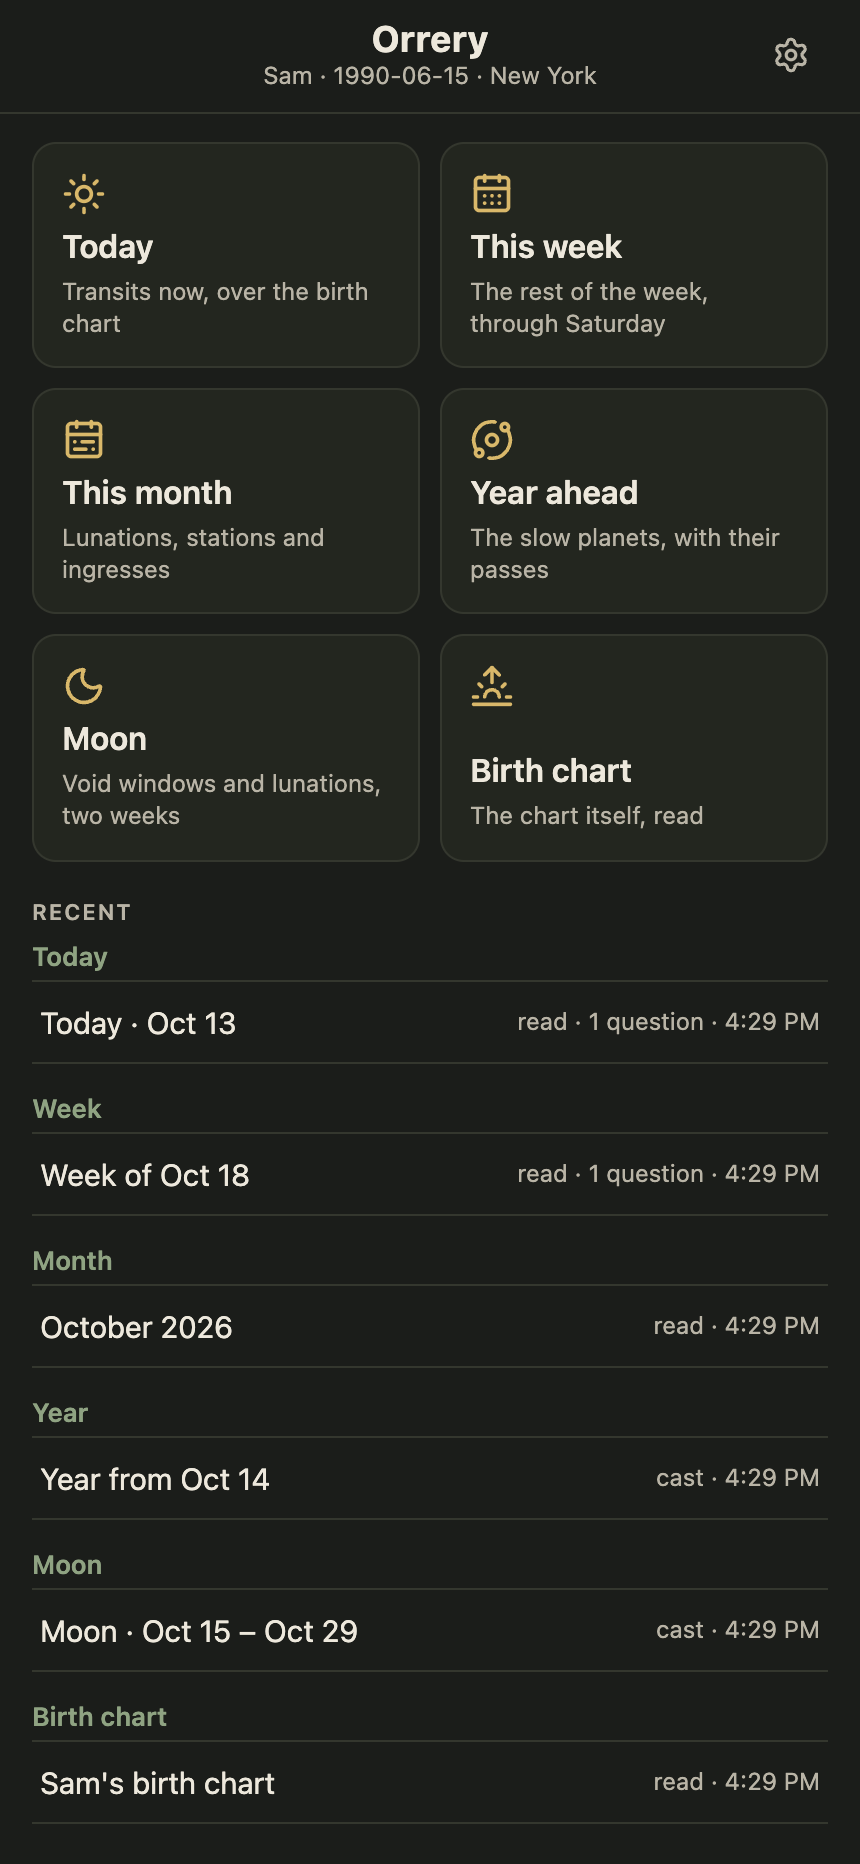
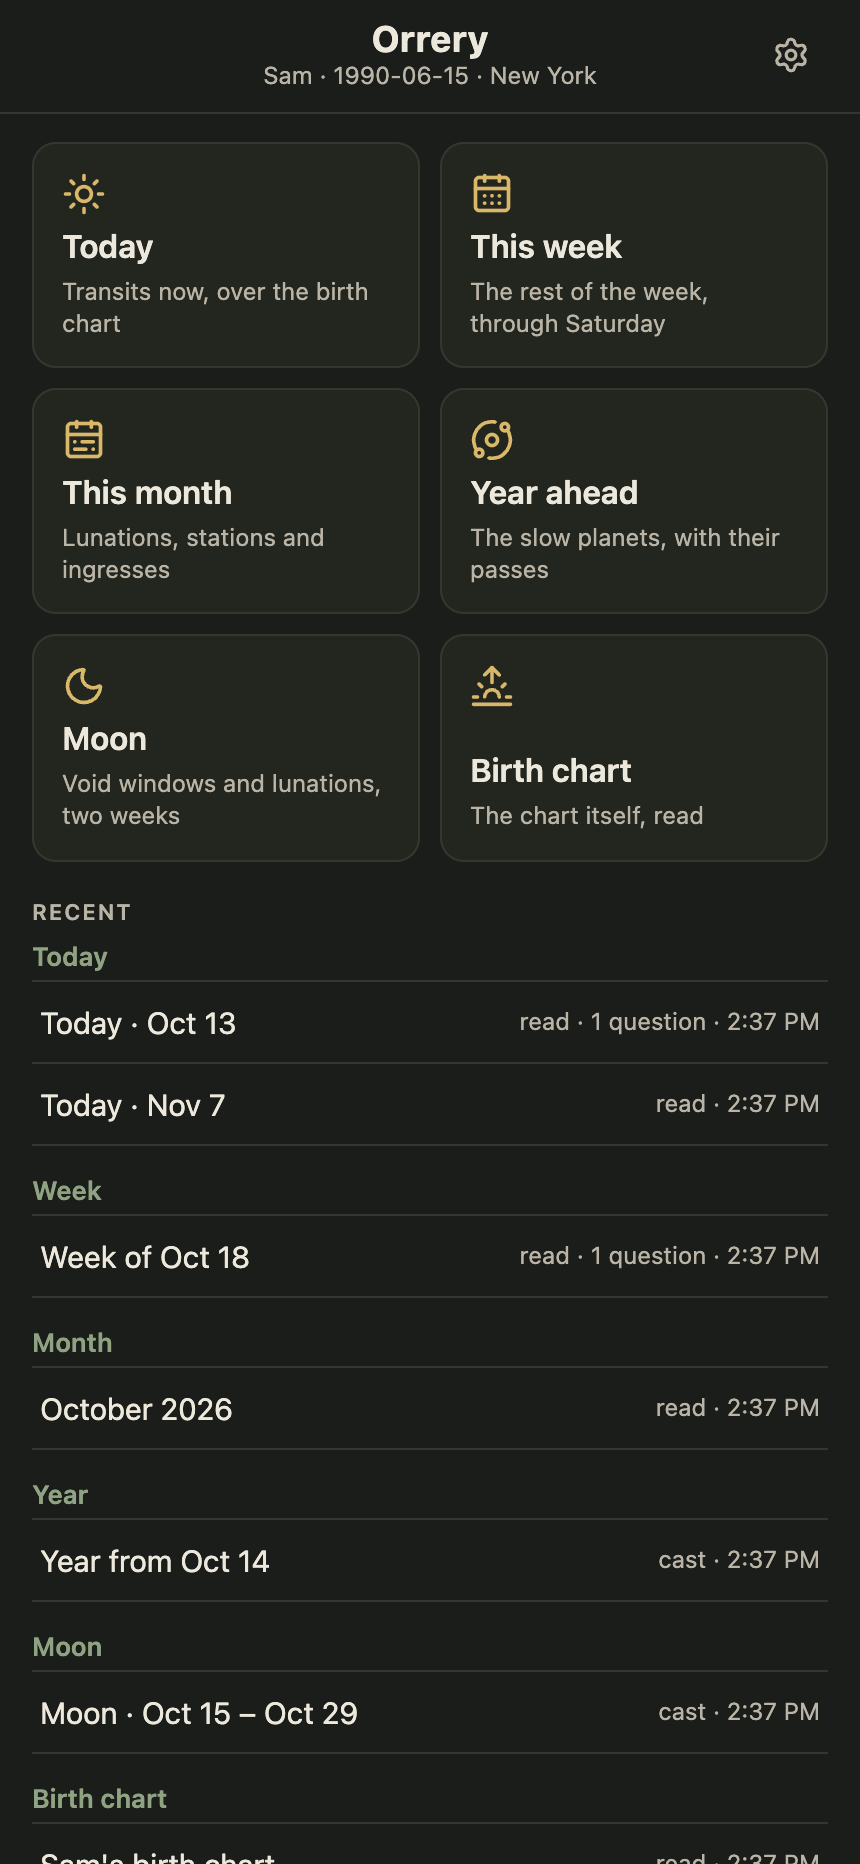
docs: a busier demo day, and a phone shot of its held popup

diff --git a/scripts/seed-demo.ts b/scripts/seed-demo.ts
@@ -84,6 +84,42 @@ The **Sun trine your Sun** is still warm on Monday: send the application you hav
 **Saturn on your Mars** separates slowly all week, and **Uranus on your Mercury** keeps the plans fluid. Mercury stations retrograde on Saturday: anything signed after Friday will be revisited.`, 5.4, 1090)
 store.addFollowUp(week.id, 'Which day is best to follow up with the recruiter?')
 
+// A busier day, fourteen contacts on the wheel, listed under the Oct 13 one.
+const busy = store.addCasting({ kind: 'today', period: '2026-11-07', title: 'Today · Nov 7', result: fixture('transit-chart-nov7') })
+write(busy.id, "Write today's reading (2026-11-07).", `### Today
+
+Once a year the **Sun reaches your Pluto**, and today is the day, exact at 14:20 in your second house. What you have been understating about money or your own worth gets said plainly, by you or to you. It is not a crisis; it is the annual audit. By tomorrow before dawn the Sun trines your **Midheaven**, **Jupiter** and **Chiron** in turn, so whatever is faced today turns into standing at work.
+
+**Venus, retrograde, squares your Saturn** for the second of three passes and still trines your Sun: a friendship or a price is being renegotiated slowly, and someone from early September comes back around warmer than before. **Mercury, also retrograde**, doubles back on a clever idea from early October and has second thoughts about the direction; write them down rather than act on them.
+
+### The Moon
+
+A heavy first hour, the Moon in Libra square your Saturn at 06:21, then trine your Sun by 07:03 and the mood lifts. The morning is easy company.
+
+### The backdrop
+
+**Jupiter sextile your Sun**, the first of three passes into next summer: doors open with little push. **Saturn square your Uranus** and sextile your North Node are the season's long argument between the old structure and the new method, and patience is winning it.
+
+### In one line
+
+Say the number out loud.`, 4.6, 840)
+store.setTransitReadings(busy.id, {
+  'Sun|Conjunction|Pluto': 'Once a year the Sun reaches your Pluto. What you have been understating about money or worth gets said plainly today.',
+  'Moon|Square|Saturn': 'A heavy first hour: the to-do list looks longer than it is.',
+  'Venus|Square|Saturn': 'Second pass of three: a friendship or a price being renegotiated, slowly.',
+  'Mercury|Sextile|Uranus': 'Retrograde Mercury doubles back on a clever idea from early October; this time it works.',
+  'Mercury|Square|True North Node': 'Second thoughts about the direction. Write them down rather than acting on them.',
+  'Moon|Trine|Sun': 'By breakfast the mood lifts; the morning is easy company.',
+  'Venus|Trine|Sun': 'Someone from early September comes back around, warmer than before.',
+  'Jupiter|Sextile|Sun': 'The first of three passes into next summer: doors open with little push.',
+  'Saturn|Square|Uranus': 'The long backdrop: the old structure and the new method, still arguing.',
+  'Saturn|Sextile|True North Node': 'Patience is the way forward this season, and it is working.',
+  'Sun|Trine|MC': 'Tomorrow before dawn: a quiet lift in how your work is seen.',
+  'Sun|Trine|Jupiter': 'Generosity at work, yours and theirs.',
+  'Sun|Trine|Chiron': 'What once hurt is now what you are consulted on.',
+  'Sun|Sextile|Neptune': 'A dreamier edge to the week, fading.',
+})
+
 const today = store.addCasting({ kind: 'today', period: '2026-10-13', title: 'Today · Oct 13', result: fixture('transit-chart'), starred: true })
 write(today.id, "Write today's reading (2026-10-13).", `### Today
 

diff --git a/scripts/fixtures.ts b/scripts/fixtures.ts
@@ -16,6 +16,8 @@ const OUT = path.resolve('src/test/fixtures')
 const jobs: [file: string, tool: string, args: Record<string, unknown>][] = [
   ['natal-chart.json', 'create_natal_chart', DEMO_BIRTH],
   ['transit-chart.json', 'create_transit_chart', { ...DEMO_BIRTH, transit_date_time: '2026-10-13 05:58' }],
+  // A busy day, for the demo's second Today casting: fourteen contacts on the wheel.
+  ['transit-chart-nov7.json', 'create_transit_chart', { ...DEMO_BIRTH, transit_date_time: '2026-11-07 05:58' }],
   ['forecast-week.json', 'forecast_week', { ...DEMO_BIRTH, start_date: '2026-10-12' }],
   ['forecast-week-oct18.json', 'forecast_week', { ...DEMO_BIRTH, start_date: '2026-10-18' }],
   ['forecast-month.json', 'forecast_month', { ...DEMO_BIRTH, month: '2026-10' }],
